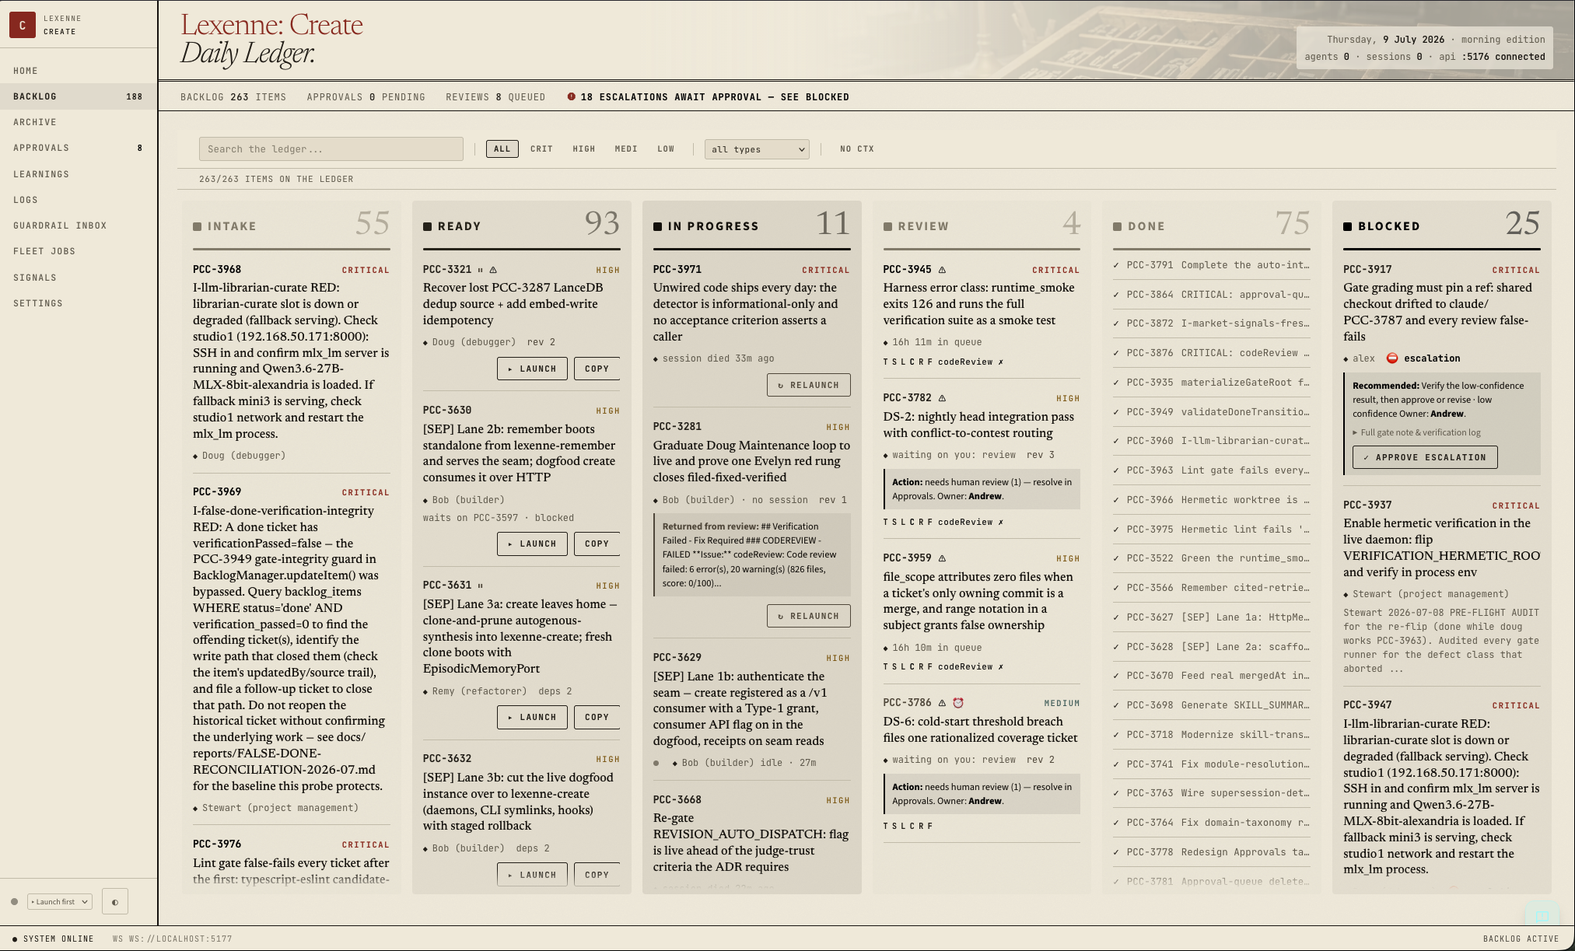
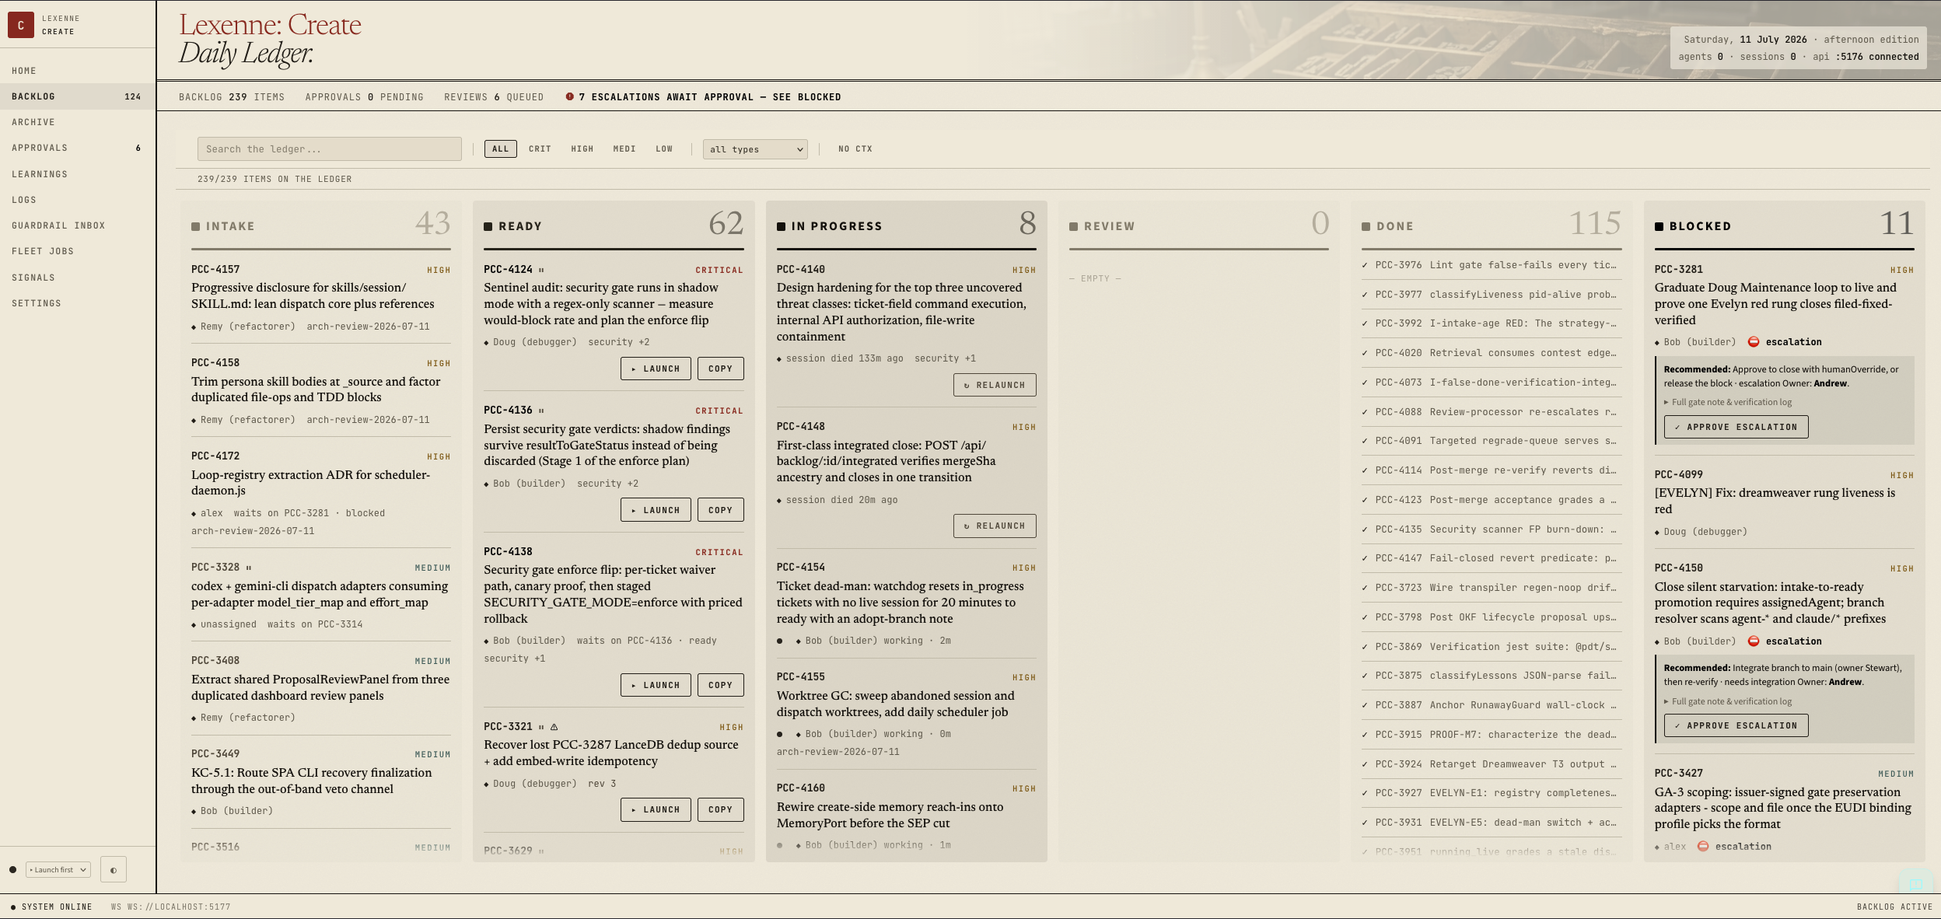
Refresh create deep-dive: healthier backlog screenshot, GTM-backed proof section, zero-copy-paste reframe
- Swap backlog screenshot for a healthier-state capture (239 items, 115 done, 0 in review)
- Add a data-backed "Proven at Scale" section sourced from the 2026-07-11 GTM grading report
- Reframe the "kanban board you copy-paste from" section to reflect that dispatch is now
  fully automated (was manual clipboard copy-paste as of earlier this week)
- Reconcile test-count (2,000+) and gate-count (7) claims that were inconsistent across the page
- Credit Addy Osmani's agentic-autonomy framework with a link

diff --git a/presentations/create-harness-engineering.html b/presentations/create-harness-engineering.html
@@ -518,6 +518,7 @@
     <li><a href="#agents">Agents</a></li>
     <li><a href="#governance">Governance</a></li>
     <li><a href="#sessions">Sessions</a></li>
+    <li><a href="#by-the-numbers">By the Numbers</a></li>
     <li><a href="#differentiators">Differentiators</a></li>
     <li><a href="../index.html#presentations" class="back-link" style="color: var(--text-faint);">Portfolio</a></li>
   </ul>
@@ -562,8 +563,8 @@
         <div class="stat-label">Tests on every submission<br>Jest · Cargo · Ruff across the fleet</div>
       </div>
       <div class="stat">
-        <div class="stat-num">6-stage</div>
-        <div class="stat-label">Review gate: Lint · Tests · Quinn<br>· Sentinel · Evelyn · Stewart</div>
+        <div class="stat-num">7-gate</div>
+        <div class="stat-label">Independent review: Lint · Tests ·<br>Security · CodeReview · Runtime · FileScope · Acceptance</div>
       </div>
     </div>
   </div>
@@ -580,16 +581,18 @@
     <h2 class="reveal">"Isn't this just a kanban board you copy-paste from?"</h2>
     <div class="rule reveal"></div>
 
-    <p class="reveal">Fair question. Most "agent frameworks" are exactly that: a UI layer over a task list, where a human reads the ticket, constructs a prompt, pastes it into an AI tool, copies the result back, and manually updates a status field. The AI is accelerating individual steps. The process is still human-driven.</p>
+    <p class="reveal">Fair question — and until earlier this week, the honest answer was "basically, yes, for the dispatch step." Reading the ticket, building the prompt, pasting it into a session, copying the result back — that was still a manual loop, same as everyone else's. That step is now fully automated. Zero copy-paste. That's the shift that actually matters: not another AI feature, but removing the human from a loop where the AI was never the bottleneck.</p>
 
-    <p class="reveal"><em>create</em> is architecturally different. The backlog is a <em>live state machine</em> with transactional guarantees. Stewart promotes intake to ready and auto-generates agent-scoped prompts. Each agent registers its session, claims work, executes under a structured SOP, runs RED→GREEN→REFACTOR, and submits for review through a single HTTP API. The human stays at cross-ticket decision boundaries — picking what to dispatch, ratifying handoffs, owning architectural calls — while the framework removes the friction inside each ticket: shared scratchpads carry context across sessions, ISC tables make "done" binary, and structured reflection captures what the next agent needs.</p>
+    <p class="reveal">Most "agent frameworks" never make that shift: a UI layer over a task list, where a human reads the ticket, constructs a prompt, pastes it into an AI tool, copies the result back, and manually updates a status field. The AI accelerates individual steps. The process is still human-driven.</p>
+
+    <p class="reveal"><em>create</em> is architecturally different. The backlog is a <em>live state machine</em> with transactional guarantees. Stewart promotes intake to ready and auto-generates agent-scoped prompts; the dispatcher launches the session directly — no clipboard, no paste. Each agent registers its session, claims work, executes under a structured SOP, runs RED→GREEN→REFACTOR, and submits for review through a single HTTP API. The human stays at cross-ticket decision boundaries — sequencing the backlog, ratifying handoffs, owning architectural calls — while the framework removes the friction inside each ticket: shared scratchpads carry context across sessions, ISC tables make "done" binary, and structured reflection captures what the next agent needs.</p>
 
     <p class="reveal">The human's role is: set direction, define acceptance criteria, and review output. Everything between is <em>create</em> — protocol, lifecycle, context, and gates.</p>
 
     <div class="callout reveal" style="margin-top: 2.5rem;">
       <span class="callout-label">The core distinction</span>
       <p><strong>AI-assisted:</strong> You use AI tools inside your existing process. Efficiency improves 10–20%. The loop is still human-driven, the context is rebuilt every prompt, and "done" is subjective.<br><br>
-      <strong><em>create</em> / AI-first:</strong> You redesign the process around agents as the primary builders. The framework handles dispatch prep, context continuity, structured handoffs between specialists, and machine-verifiable quality gates. Humans provide direction and architectural judgment. The difference is multiplicative, not additive — and it compounds because the system, scratchpads, and memory get better over time.</p>
+      <strong><em>create</em> / AI-first:</strong> You redesign the process around agents as the primary builders. The framework handles dispatch, context continuity, structured handoffs between specialists, and machine-verifiable quality gates — end to end, with zero manual copy-paste. Humans provide direction and architectural judgment. The difference is multiplicative, not additive — and it compounds because the system, scratchpads, and memory get better over time.</p>
     </div>
   </div>
 </section>
@@ -686,8 +689,8 @@
     <p class="reveal">Every backlog item moves through five stages with automated transitions. Agents claim work, the system tracks conflicts, and the human sees a real-time view of what every agent is doing and why.</p>
 
     <div class="screenshot-wrap reveal" style="margin-top: 2rem;">
-      <img src="../images/create.png" alt="Lexenne create — daily ledger dashboard showing a live backlog of 263 items">
-      <div class="screenshot-cap">LEXENNE CREATE · DAILY LEDGER · 263 ITEMS</div>
+      <img src="../images/create.png" alt="Lexenne create — daily ledger dashboard showing a live backlog of 239 items: 62 ready, 8 in progress, 115 done, 0 stuck in review">
+      <div class="screenshot-cap">LEXENNE CREATE · DAILY LEDGER · 239 ITEMS · 115 DONE · 0 IN REVIEW</div>
     </div>
 
     <div class="two-col reveal" style="margin-top: 3rem;">
@@ -731,12 +734,12 @@
     <h2 class="reveal">From plan to done — without restarts.</h2>
     <div class="rule reveal"></div>
 
-    <p class="reveal">This is the loop every <em>create</em> ticket runs through. The orchestration is structured by the <em>create</em> backbone and its dashboard, not by a single autonomous agent: tickets carry their own AC, prompt templates, and agent assignments; the dashboard auto-generates an agent-scoped prompt on status transitions; Launch and Relaunch buttons stage the prompt for one-click clipboard copy. PCC-2327 — a 5-phase DB migration that ran Remy → Alex (ADR) → Remy → Stewart → Remy — shipped through this loop without restarts or context loss. <strong>Autonomous fan-out — where a single orchestrator agent runs the whole loop unattended — is Phase 2, calendar-gated ~6 weeks out behind measured-data review of how often the operator actually wishes the system would take more action.</strong></p>
+    <p class="reveal">This is the loop every <em>create</em> ticket runs through. The orchestration is structured by the <em>create</em> backbone and its dashboard, not by a single autonomous agent: tickets carry their own AC, prompt templates, and agent assignments; the dashboard auto-generates an agent-scoped prompt on status transitions and launches the session directly — no clipboard, no manual paste. PCC-2327 — a 5-phase DB migration that ran Remy → Alex (ADR) → Remy → Stewart → Remy — shipped through this loop without restarts or context loss. <strong>Autonomous fan-out — where a single orchestrator agent runs the whole loop unattended — is landing incrementally: delegated promotion already removed the manual intake→ready→dispatch handoff, and more of Stewart's remaining load is automating out as this is written.</strong></p>
 
     <div class="big-quote reveal">"You build the system. The prompts are disposable."</div>
 
     <h3 class="reveal" style="margin-top: 2rem;">The Six Phases of the Loop</h3>
-    <p class="reveal">Every ticket runs the same six phases — from a planning agent's decomposition all the way to an automated review gate's auto-close. The dashboard owns dispatch and gating; specialists own execution; the operator clicks Launch or Relaunch.</p>
+    <p class="reveal">Every ticket runs the same six phases — from a planning agent's decomposition all the way to an automated review gate's auto-close. The dashboard owns dispatch and gating; specialists own execution; the operator sequences the backlog and reviews at decision points.</p>
 
     <div class="phase-list reveal">
       <div class="phase">
@@ -756,8 +759,8 @@
       <div class="phase">
         <div class="phase-num">P3</div>
         <div class="phase-content">
-          <h4>Dispatch — the Launch button</h4>
-          <p>The operator moves a <code>ready</code> ticket to <code>in_progress</code> in the <em>create</em> dashboard. The status transition triggers prompt generation: the dashboard composes an agent-scoped prompt from the ticket's AC, file references, prompt template, and constraints — and stages it for the Launch button. <strong>One click on Launch copies the prompt to the clipboard.</strong> The operator pastes it into a fresh Claude session.</p>
+          <h4>Dispatch — Automatic, Zero Copy-Paste</h4>
+          <p>Delegated promotion moves a <code>ready</code> ticket to <code>in_progress</code> automatically. The transition triggers prompt generation: the dashboard composes an agent-scoped prompt from the ticket's AC, file references, prompt template, and constraints — and launches the session directly. Until earlier this week this was a manual step: click Launch, copy the prompt, paste it into a fresh session. <strong>That hand-off is now fully automated. Zero copy-paste.</strong></p>
           <div class="code-block" style="margin-top: 0.75rem;">
             <span class="code-label">Auto-staged prompt (excerpt — what Launch copies)</span>
 <pre><span class="hl-key">Agent:</span>    <span class="hl-str">bob</span>
@@ -780,21 +783,21 @@
         <div class="phase-num">P5</div>
         <div class="phase-content">
           <h4>Automated Review Gates</h4>
-          <p>Submission to <code>review</code> triggers a multi-stage gate that runs without operator intervention: ESLint (TypeScript), Ruff (Python), Cargo (Rust), 1,000+ Jest suites, Evelyn's eval (machine-verifiable AC check, validated end to end), Quinn (code review SOP), Sentinel (security review where applicable), and Stewart's pre-commit gate. Every gate is binary and audit-logged.</p>
+          <p>Submission to <code>review</code> triggers a multi-stage gate that runs without operator intervention: ESLint (TypeScript), Ruff (Python), Cargo (Rust), 2,000+ Jest/Cargo/Ruff tests across the fleet, Evelyn's eval (machine-verifiable AC check, validated end to end), Quinn (code review SOP), Sentinel (security review where applicable), and Stewart's pre-commit gate — seven independent gates in all. Every gate is binary and audit-logged.</p>
         </div>
       </div>
       <div class="phase">
         <div class="phase-num">P6</div>
         <div class="phase-content">
-          <h4>Done — or Relaunch</h4>
-          <p><strong>Pass:</strong> the ticket auto-closes to <code>done</code>. The operator is notified but does not click anything. <strong>Fail:</strong> the ticket flips back to <code>in_progress</code> and a Relaunch button appears, staging a "fix it" prompt that names the failed gate (which ISC row, which lint rule, which test) and the specific correction needed. <strong>One click on Relaunch copies it to the clipboard.</strong> The operator pastes it into the existing agent session — work continues, no restart.</p>
+          <h4>Done — or Auto-Relaunch</h4>
+          <p><strong>Pass:</strong> the ticket auto-closes to <code>done</code>. The operator is notified but does not click anything. <strong>Fail:</strong> the ticket flips back to <code>in_progress</code> and the dispatcher automatically relaunches the same agent session with a structured fix-it prompt that names the failed gate (which ISC row, which lint rule, which test) and the specific correction needed — up to a capped number of retries before it escalates to a human. No restart, no manual paste.</p>
         </div>
       </div>
     </div>
 
     <div class="callout success reveal" style="margin-top: 2rem;">
-      <span class="callout-label">The Recovery Loop — What makes this not copy-paste</span>
-      <p>When a review gate fails, the answer is never "try rephrasing the prompt." The <em>create</em> dashboard composes a structured Relaunch prompt that names the failed gate (which ISC row, which lint rule, which test, which review note), states the specific correction needed, and re-attaches the original context. One click copies it to the clipboard; the operator pastes it into the same agent session to continue. This is structured error correction — a rule-based recovery loop with an ISC-anchored bar, not vibes — and it is what makes the framework converge instead of spin.</p>
+      <span class="callout-label">The Recovery Loop — Why this isn't copy-paste</span>
+      <p>When a review gate fails, the answer is never "try rephrasing the prompt." The <em>create</em> dashboard composes a structured Relaunch prompt that names the failed gate (which ISC row, which lint rule, which test, which review note), states the specific correction needed, re-attaches the original context, and relaunches the same agent session automatically — no click, no clipboard, no manual paste. This is structured error correction — a rule-based recovery loop with an ISC-anchored bar, not vibes — and it is what makes the framework converge instead of spin.</p>
     </div>
   </div>
 </section>
@@ -1031,7 +1034,8 @@
 
 <span class="hl-comment"># Covers: core API unit tests, hook validation,
 # steward guardrails, approval queue, skill triggers,
-# architecture boundary checks — 150+ suites</span></pre>
+# architecture boundary checks — 150+ suites in this
+# fast gate (2,000+ across the full fleet suite)</span></pre>
         </div>
         <div class="callout" style="margin-top: 1rem;">
           <span class="callout-label">No stubs in production code</span>
@@ -1083,6 +1087,70 @@
 <div class="divider"></div>
 
 <!-- ═══════════════════════════════════════════════════════
+     PROVEN AT SCALE — GTM GRADING DATA
+═══════════════════════════════════════════════════════ -->
+<section id="by-the-numbers" class="section">
+  <div class="section-inner wide">
+    <div class="section-label reveal">Proven at Scale</div>
+    <h2 class="reveal">100 days of production data, not a demo.</h2>
+    <div class="rule reveal"></div>
+
+    <p class="reveal">Every number below comes from the live ticket archive and git history — 1,604 accepted changes across 8 repositories, April 1 through July 11, 2026 — graded against <a href="https://addyo.substack.com/p/agentic-autonomy-levels" target="_blank" rel="noopener" style="color: var(--accent);">Addy Osmani's agentic-autonomy framework</a>. <em>create</em> lands as a real Level 5 system: managed by exception, not managed by hand.</p>
+
+    <div class="stat-strip reveal" style="margin-top: 2rem;">
+      <div class="stat">
+        <div class="stat-num">1,604+</div>
+        <div class="stat-label">Production changes accepted<br>across 8 repos, first 100 days</div>
+      </div>
+      <div class="stat">
+        <div class="stat-num">96.6%</div>
+        <div class="stat-label">Autonomous close rate<br>June steady state, zero human touch</div>
+      </div>
+      <div class="stat">
+        <div class="stat-num">27.7</div>
+        <div class="stat-label">Accepted changes per<br>human intervention</div>
+      </div>
+      <div class="stat">
+        <div class="stat-num">77.9%</div>
+        <div class="stat-label">First-pass acceptance<br>loops bounded, always converge</div>
+      </div>
+    </div>
+
+    <div class="card-grid reveal" style="margin-top: 1.5rem;">
+      <div class="card">
+        <span class="card-icon"><i class="ph ph-gauge"></i></span>
+        <h3>Median 25h, Ticket to Merged</h3>
+        <p>Median lead time from filed to verified-merged is 25 hours (queue time included by design — the backlog is a prioritized buffer). Median agent-active cycle time is 5.2 hours.</p>
+      </div>
+      <div class="card">
+        <span class="card-icon"><i class="ph ph-recycle"></i></span>
+        <h3>The Factory Fixes Itself</h3>
+        <p>10% of all throughput is defect-repair on the system's own output — filed, dispatched, and verified by the same pipeline that shipped the original change. Most agentic tooling can't claim this.</p>
+      </div>
+      <div class="card">
+        <span class="card-icon"><i class="ph ph-arrow-counter-clockwise"></i></span>
+        <h3>Reversibility Is Drilled</h3>
+        <p>28 reverts executed in 60 days against 352 merges — zero lost work. Every agent works in an isolated, detached worktree; nothing lands on main without integration.</p>
+      </div>
+      <div class="card">
+        <span class="card-icon"><i class="ph ph-shield-check"></i></span>
+        <h3>A Third of Work Self-Corrects</h3>
+        <p>33% of all tickets receive automated review feedback and get caught and corrected before a human would ever have seen them — across 7 independent gates run by a separate grading process, not agent self-report.</p>
+      </div>
+    </div>
+
+    <div class="callout success reveal" style="margin-top: 2rem;">
+      <span class="callout-label">Already moving past this snapshot</span>
+      <p>These numbers are already conservative: <em>create</em> is more automated today than when this data was captured. Early July stacked a lot of concurrent work — hardening the security gates, delegating more of Stewart's promotion and dispatch load, and separating <em>create</em> from <em>remember</em> into standalone repos — and threading that many initiatives at once took a deliberate slow-walk rather than a rush. We're re-grading in about a week, once the current wave lands and the new numbers stabilize under continued use.</p>
+    </div>
+
+    <p class="reveal" style="margin-top: 1.5rem; font-size: 0.78rem; color: var(--text-faint);">Source: internal GTM grading report, 2026-07-11 — 1,604-item ticket archive, live backlog API, 60-day git history. Re-grading in ~1 week as delegated dispatch and other in-flight automation stabilize; cost-per-change and defect-escape metrics are in build.</p>
+  </div>
+</section>
+
+<div class="divider"></div>
+
+<!-- ═══════════════════════════════════════════════════════
      DIFFERENTIATORS
 ═══════════════════════════════════════════════════════ -->
 <section id="differentiators" class="section">
@@ -1102,7 +1170,7 @@
           <tr>
             <td>Task Orchestration</td>
             <td class="dim">Human reads ticket, constructs prompt, pastes into AI tool, copies output back. Human is the message bus.</td>
-            <td class="bright">Stewart auto-generates agent-scoped prompts with binary AC. The operator dispatches across parallel sessions; structured handoff signatures let specialists pick up mid-ticket without restart. Evelyn runs at submission against the ISC table.</td>
+            <td class="bright">Stewart auto-generates agent-scoped prompts with binary AC and dispatches them automatically across parallel sessions — zero manual copy-paste. Structured handoff signatures let specialists pick up mid-ticket without restart. Evelyn runs at submission against the ISC table.</td>
           </tr>
           <tr>
             <td>State Management</td>
@@ -1122,7 +1190,7 @@
           <tr>
             <td>Quality Gates</td>
             <td class="dim">Subjective review. "Does this look right?" Human checks everything.</td>
-            <td class="bright">ISC acceptance criteria (binary pass/fail). Verification gate runs 150+ test suites. Evelyn auto-approves routine completions. Human reviews only genuinely ambiguous decisions.</td>
+            <td class="bright">ISC acceptance criteria (binary pass/fail). Fast verification gate runs 150+ suites (2,000+ across the full fleet). Evelyn auto-approves routine completions. Human reviews only genuinely ambiguous decisions.</td>
           </tr>
           <tr>
             <td>Context Continuity</td>
@@ -1147,7 +1215,7 @@
           <tr>
             <td>Skill Routing</td>
             <td class="dim">Human decides which AI tool to use for each task. Manual prompt-engineering every time.</td>
-            <td class="bright">12 specialist agents with keyword-triggered SKILL.md activation. Stewart assigns the right specialist when promoting a ticket to ready; the dashboard auto-generates an agent-scoped prompt at the ready→in-progress transition; one click on Launch copies it to the clipboard. No manual prompt engineering.</td>
+            <td class="bright">12 specialist agents with keyword-triggered SKILL.md activation. Stewart assigns the right specialist when promoting a ticket to ready; the dashboard auto-generates an agent-scoped prompt and launches the session automatically at the ready→in-progress transition. No manual prompt engineering, no copy-paste.</td>
           </tr>
         </tbody>
       </table>
@@ -1195,7 +1263,7 @@
     <div class="rule center reveal"></div>
     <h2 class="reveal">The harness is the product.</h2>
     <p class="reveal" style="margin: 0 auto 2rem; text-align: center;">
-      <em>create</em> is not a collection of prompts and a kanban board. It is a purpose-built engineering system designed to make agent-first development reliable, auditable, and continuously improving. Every component — the session protocol, the approval queue, the work packages, the Launch / Relaunch dispatch loop, the TDD enforcement, the scratchpad continuity — exists to answer one question: <em>what capability is missing, and how do we make it legible to the agent?</em>
+      <em>create</em> is not a collection of prompts and a kanban board. It is a purpose-built engineering system designed to make agent-first development reliable, auditable, and continuously improving. Every component — the session protocol, the approval queue, the work packages, the automated Launch / Relaunch dispatch loop, the TDD enforcement, the scratchpad continuity — exists to answer one question: <em>what capability is missing, and how do we make it legible to the agent?</em>
     </p>
     <div style="display: flex; justify-content: center; gap: 1.5rem; flex-wrap: wrap; margin-top: 2rem;" class="reveal">
       <a href="../index.html#work" style="font-size:0.8rem;font-weight:500;letter-spacing:0.1em;text-transform:uppercase;text-decoration:none;padding:0.8rem 2rem;border-radius:6px;background:var(--accent);color:var(--bg);transition:all 0.3s var(--ease);">Back to Portfolio</a>
